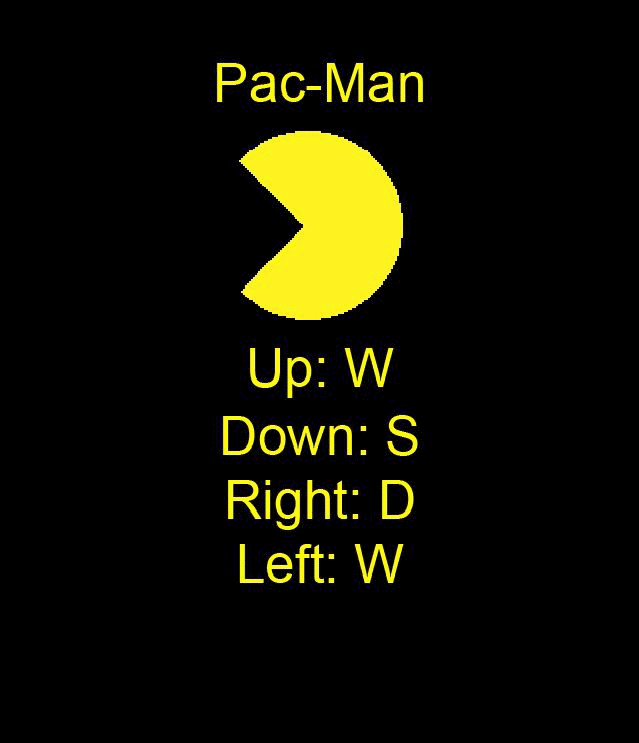
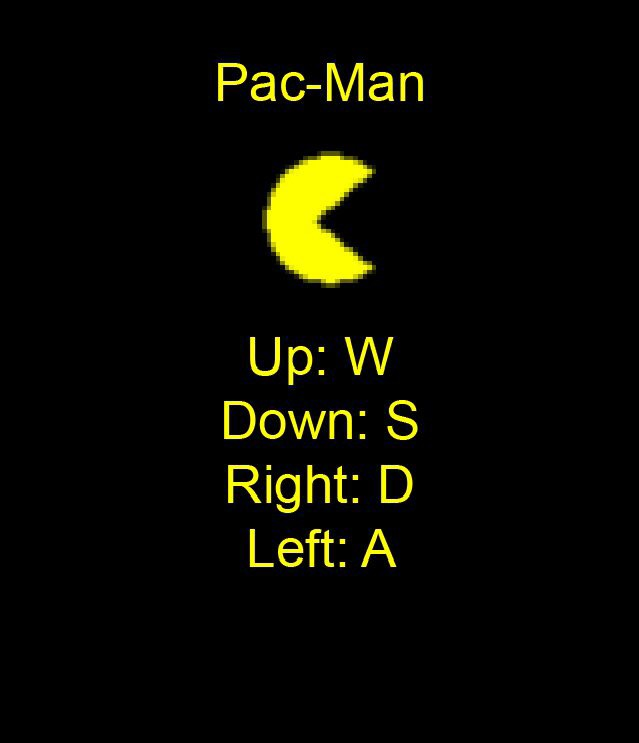
Added start text

Changed region(s): [[0.3271, 0.0929, 0.6541, 0.8048], [0.5352, 0.0929, 0.6244, 0.1548], [0.4757, 0.0929, 0.5055, 0.1238]]

diff --git a/main.py b/main.py
@@ -57,6 +57,7 @@ def main():
     score.setTextColor("white")
     score.draw(window)
     startMenu = Image(Point(config.WINDOW_WIDTH / 2, config.WINDOW_HEIGHT / 2), "images/menu.png")
+    infoText = Text(Point(config.WINDOW_WIDTH / 2, 670), "Press any key to start...")
     endScreen = Image(Point(config.WINDOW_WIDTH / 2, config.WINDOW_HEIGHT / 2), "images/end.png")
 
     # Physics loop
@@ -103,9 +104,12 @@ def main():
         if gameState == 0:
             # Check for key input
             startMenu.draw(window)
+            infoText.draw(window)
+            infoText.setTextColor("white")
             window.getKey()
             gameState = 1
             startMenu.undraw()
+            infoText.undraw()
 
             # Draw ready text
             ready = Text(Point(config.WINDOW_WIDTH / 2, 410), "READY!")
